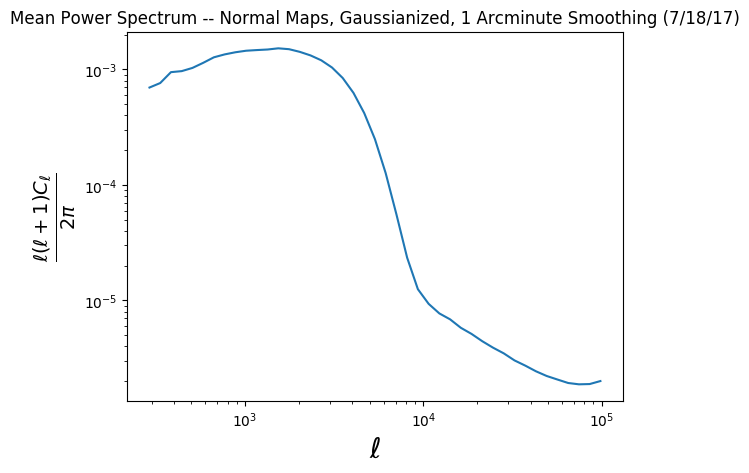
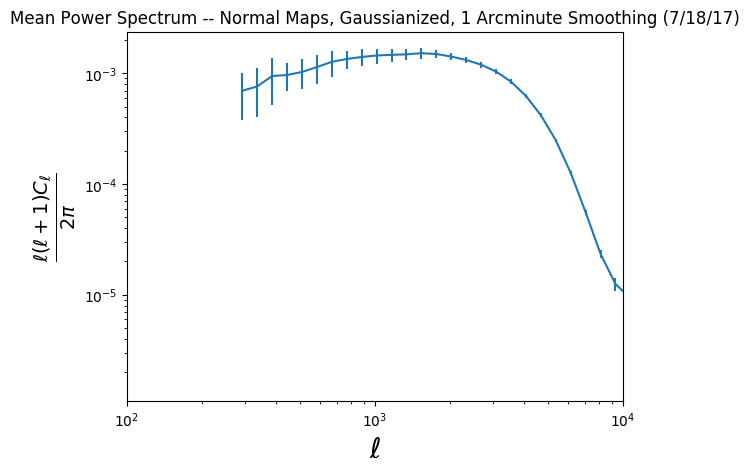
Added error bars and multiple smoothing scales to gauss_SNR_norm

diff --git a/Parallel Gaussianization/Normal Maps/gauss_SNR_norm.py b/Parallel Gaussianization/Normal Maps/gauss_SNR_norm.py
@@ -81,7 +81,7 @@ def PowerSpectrum(psd2D, sizedeg = 12.25, size = 2048, bins = 50):
     powspec = powspec[last_nan + 1:]
     return ells, powspec
 
-def SNR(powerspecs, covar):
+def SNR(powermean, covar):
     #Calculate Signal-to-Noise ratio given a set of powerspectra 
 
     powermeanmat = np.mat(powermean)    
@@ -103,30 +103,30 @@ def toPowspec(image_num):
     image = fits.open('/tigress/jialiu/CMBL_maps_46cosmo/Om0.296_Ol0.704_w-1.000_si0.786/WLconv_z1100.00_' + '{:04d}'.format(image_num) + 'r.fits')[0].data.astype(float)
     #1 Arcminute = 9.75; 2 Arc = 19.5; 5 Arc = 48.76; 10 Arc = 97.5
     image_1 = scipy.ndimage.filters.gaussian_filter(image, 9.75)
-    image_2 = scipy.ndimage.filters.gaussian_filter(image, 19.5)
-    image_5 = scipy.ndimage.filters.gaussian_filter(image, 48.76)
-    image_10 = scipy.ndimage.filters.gaussian_filter(image, 97.5)
+   # image_2 = scipy.ndimage.filters.gaussian_filter(image, 19.5)
+   # image_5 = scipy.ndimage.filters.gaussian_filter(image, 48.76)
+   # image_10 = scipy.ndimage.filters.gaussian_filter(image, 97.5)
    
     image_1 = gaussianizepdf(image_1)
-    image_2 = gaussianizepdf(image_2)
-    image_5 = gaussianizepdf(image_5)
-    image_10 = gaussianizepdf(image_10)
+   # image_2 = gaussianizepdf(image_2)
+   # image_5 = gaussianizepdf(image_5)
+   # image_10 = gaussianizepdf(image_10)
 
     F_1 = fftpack.fftshift(fftpack.fft2(image_1))
     psd2D_1 = np.abs(F_1)**2
-    F_2 = fftpack.fftshift(fftpack.fft2(image_2))
-    psd2D_2 = np.abs(F_2)**2
-    F_5 = fftpack.fftshift(fftpack.fft2(image_5))
-    psd2D_5 = np.abs(F_5)**2
-    F_10 = fftpack.fftshift(fftpack.fft2(image_10))
-    psd2D_10 = np.abs(F_10)**2
+   # F_2 = fftpack.fftshift(fftpack.fft2(image_2))
+   # psd2D_2 = np.abs(F_2)**2
+   # F_5 = fftpack.fftshift(fftpack.fft2(image_5))
+   # psd2D_5 = np.abs(F_5)**2
+   # F_10 = fftpack.fftshift(fftpack.fft2(image_10))
+   # psd2D_10 = np.abs(F_10)**2
 
     ells, powspec_1 = PowerSpectrum(psd2D_1, sizedeg = 12.25, size = 2048, bins = 50)
-    ells, powspec_2 = PowerSpectrum(psd2D_2, sizedeg = 12.25, size = 2048, bins = 50)
-    ells, powspec_5 = PowerSpectrum(psd2D_5, sizedeg = 12.25, size = 2048, bins = 50)
-    ells, powspec_10 = PowerSpectrum(psd2D_10, sizedeg = 12.25, size = 2048, bins = 50)
+   # ells, powspec_2 = PowerSpectrum(psd2D_2, sizedeg = 12.25, size = 2048, bins = 50)
+   # ells, powspec_5 = PowerSpectrum(psd2D_5, sizedeg = 12.25, size = 2048, bins = 50)
+   # ells, powspec_10 = PowerSpectrum(psd2D_10, sizedeg = 12.25, size = 2048, bins = 50)
 
-    return ells, powspec_1, powspec_2, powspec_5, powspec_10
+    return ells, powspec_1 #, powspec_2, powspec_5, powspec_10
 
 
 image_range = np.arange(1, 1025)
@@ -144,28 +144,28 @@ ells = results[0, 0]
 
 powspecs_1 = np.array([r[1] for r in results])
 powermean_1 = np.mean(powspecs_1, axis = 0) 
-powspecs_2 = np.array([r[2] for r in results])
-powermean_2 = np.mean(powspecs_2, axis = 0) 
-powspecs_5 = np.array([r[3] for r in results])
-powermean_5 = np.mean(powspecs_5, axis = 0) 
-powspecs_10 = np.array([r[4] for r in results])
-powermean_10 = np.mean(powspecs_10, axis = 0) 
+#powspecs_2 = np.array([r[2] for r in results])
+#powermean_2 = np.mean(powspecs_2, axis = 0) 
+#powspecs_5 = np.array([r[3] for r in results])
+#powermean_5 = np.mean(powspecs_5, axis = 0) 
+#powspecs_10 = np.array([r[4] for r in results])
+#powermean_10 = np.mean(powspecs_10, axis = 0) 
 
 cut = np.argmax(ells >= 2000)
 
 tpowspecs_1 = np.array([p[:cut] for p in powspecs_1])
 tpowermean_1 = powermean_1[:cut]
-tpowspecs_2 = np.array([p[:cut] for p in powspecs_2])
-tpowermean_2 = powermean_2[:cut]
-tpowspecs_5 = np.array([p[:cut] for p in powspecs_5])
-tpowermean_5 = powermean_5[:cut]
-tpowspecs_10 = np.array([p[:cut] for p in powspecs_10])
-tpowermean_10 = powermean_10[:cut]
+#tpowspecs_2 = np.array([p[:cut] for p in powspecs_2])
+#tpowermean_2 = powermean_2[:cut]
+#tpowspecs_5 = np.array([p[:cut] for p in powspecs_5])
+#tpowermean_5 = powermean_5[:cut]
+#tpowspecs_10 = np.array([p[:cut] for p in powspecs_10])
+#tpowermean_10 = powermean_10[:cut]
 
 covar_1 = np.mat(np.cov(tpowspecs_1, rowvar = 0))
-covar_2 = np.mat(np.cov(tpowspecs_2, rowvar = 0))
-covar_5 = np.mat(np.cov(tpowspecs_5, rowvar = 0))
-covar_10 = np.mat(np.cov(tpowspecs_10, rowvar = 0))
+#covar_2 = np.mat(np.cov(tpowspecs_2, rowvar = 0))
+#covar_5 = np.mat(np.cov(tpowspecs_5, rowvar = 0))
+#covar_10 = np.mat(np.cov(tpowspecs_10, rowvar = 0))
 
 #print("\nCovariance Matrix: ")
 #print(covar)
@@ -208,14 +208,14 @@ covar_10 = np.mat(np.cov(tpowspecs_10, rowvar = 0))
 #fig2.savefig("corrmat_gauss.png")
 
 s2r_1 = SNR(tpowermean_1, covar_1)
-s2r_2 = SNR(tpowermean_2, covar_2)
-s2r_5 = SNR(tpowermean_5, covar_5)
-s2r_10 = SNR(tpowermean_10, covar_10)
+#s2r_2 = SNR(tpowermean_2, covar_2)
+#s2r_5 = SNR(tpowermean_5, covar_5)
+#s2r_10 = SNR(tpowermean_10, covar_10)
 print("\nSignal-to-Noise ratio: ")
 print(s2r_1)
-print(s2r_2)
-print(s2r_5)
-print(s2r_10)
+#print(s2r_2)
+#print(s2r_5)
+#print(s2r_10)
 
 
 fig3 = plt.figure()
